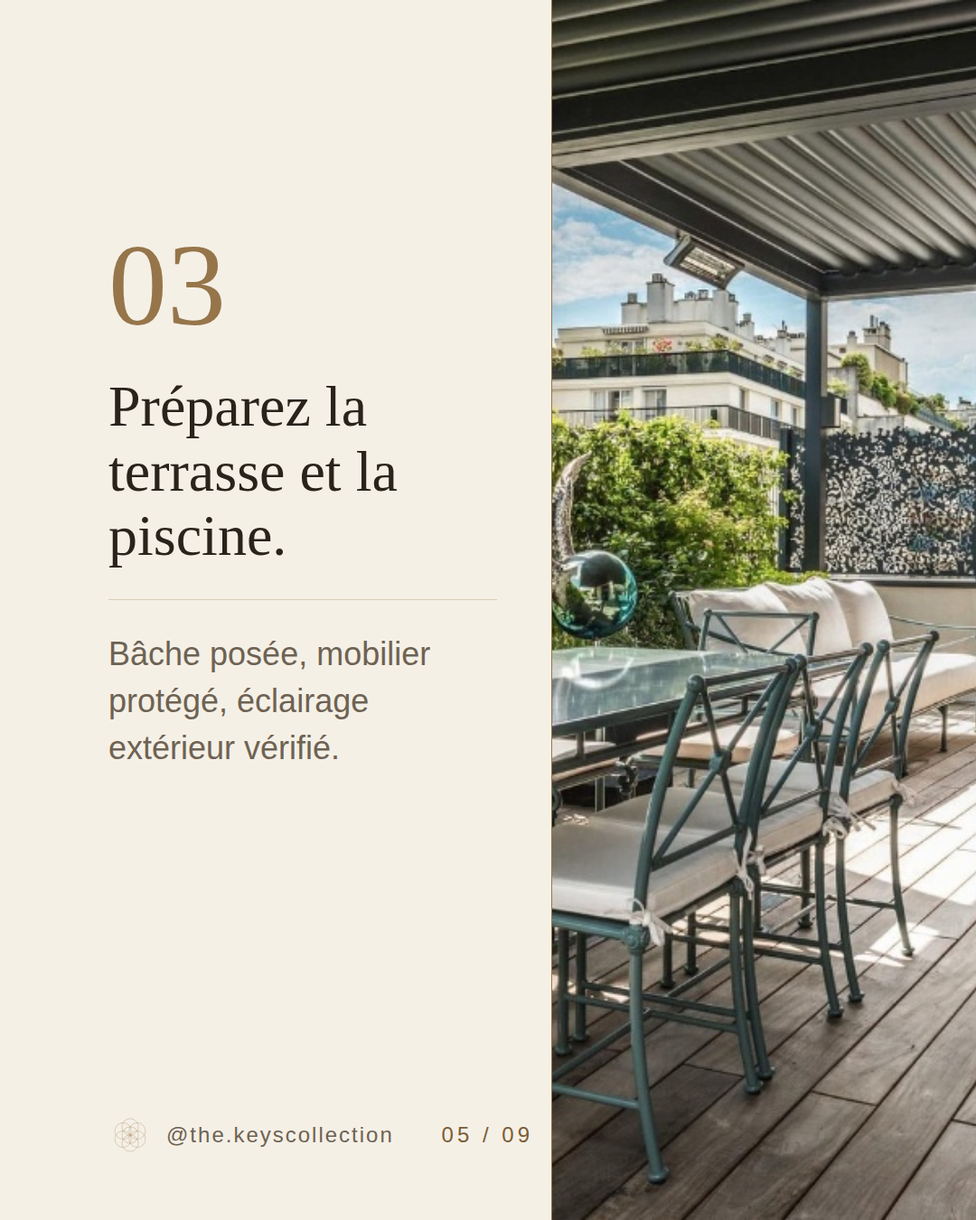
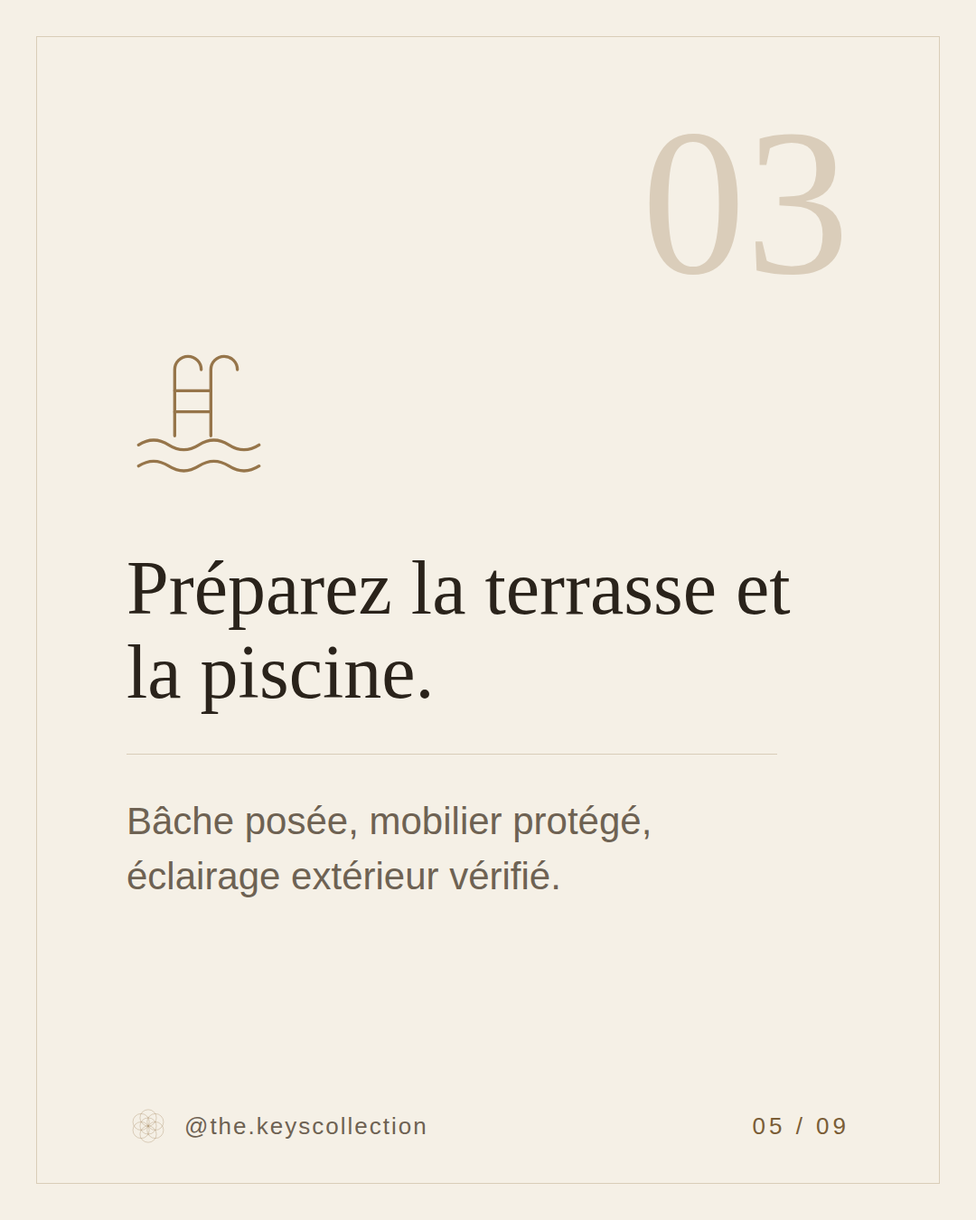
Redo today's carousel and stories without photos
Replace yesterday's property photos with bronze line icons on ivory so
today's grid and stories do not repeat the same images.

Claude-Session: https://claude.ai/code/session_014q3bndupnj5ruhxQme2s7t

diff --git a/posts/carrousel-hiver/slides.html b/posts/carrousel-hiver/slides.html
@@ -1,42 +1,39 @@
 <!doctype html><html lang="fr"><head><meta charset="utf-8"><style>
 :root{--bg:#F5F0E6;--ink:#2A231B;--soft:#6E6253;--bronze:#96754A;--bronze-ink:#7A5D36;--line:#D9CDB8}
 *{margin:0;padding:0;box-sizing:border-box}
-section{width:1080px;height:1350px;position:relative;overflow:hidden;background:var(--bg);color:var(--ink);font-family:"Liberation Sans",sans-serif}
+section{width:1080px;height:1350px;position:relative;overflow:hidden;background:var(--bg);color:var(--ink);font-family:"Liberation Sans",sans-serif;padding:0 140px}
+section::after{content:"";position:absolute;inset:40px;border:1px solid var(--line)}
 h1,h2{font-family:"Bitstream Charter","Liberation Serif",serif;font-weight:400}
-.foot{position:absolute;left:120px;right:120px;bottom:70px;display:flex;align-items:center;gap:16px;font-size:26px;letter-spacing:2px;color:var(--soft)}
+.foot{position:absolute;left:140px;right:140px;bottom:80px;display:flex;align-items:center;gap:16px;font-size:26px;letter-spacing:2px;color:var(--soft)}
 .foot b{white-space:nowrap;margin-left:auto;font-weight:400;letter-spacing:4px;color:var(--bronze-ink)}
 .mini{width:48px;height:48px;color:var(--bronze)}
-/* cover: full photo, ivory card low in the frame, text kept inside 120 px margins */
-.cover .ph{position:absolute;inset:0;background-size:cover}
-.cover .card{position:absolute;left:120px;right:120px;bottom:150px;background:rgba(245,240,230,.95);padding:60px 64px;outline:1px solid var(--bronze);outline-offset:-16px}
-.cover .lab{font-size:26px;letter-spacing:8px;text-transform:uppercase;color:var(--bronze-ink);margin-bottom:22px}
-.cover h1{font-size:96px;line-height:1.05}
-.cover p{font-size:38px;line-height:1.35;color:var(--soft);margin-top:26px}
-.cover .foot{color:#FBF8F2;text-shadow:0 1px 10px rgba(0,0,0,.5)}.cover .foot b{color:#FBF8F2}.cover .mini{color:#FBF8F2}
-/* steps: arched photo window on the right, text left */
-.step .ph{position:absolute;right:0;top:0;width:470px;height:1350px;background-size:cover;border-left:1px solid var(--bronze)}
-.step .txt{position:absolute;left:120px;width:430px;top:250px}
-.n{font-family:"Bitstream Charter",serif;font-size:130px;color:var(--bronze);line-height:1;margin-bottom:34px}
-.step h2{font-size:64px;line-height:1.12}
-.step p{font-size:36px;line-height:1.45;color:var(--soft);margin-top:34px;padding-top:34px;border-top:1px solid var(--line)}
-.step .foot{right:auto;width:470px;font-size:24px}
-.plain{display:flex;flex-direction:column;justify-content:center;padding:0 140px}
-.plain::after{content:"";position:absolute;inset:40px;border:1px solid var(--line)}
+/* text-only system: one bronze line icon per idea, big numeral, serif statement */
+.cover{display:flex;flex-direction:column;justify-content:center}
+.cover .wm{position:absolute;width:1000px;height:1000px;right:-380px;top:-300px;color:var(--bronze);opacity:.16}
+.lab{font-size:26px;letter-spacing:8px;text-transform:uppercase;color:var(--bronze-ink);margin-bottom:36px}
+.cover h1{font-size:150px;line-height:1}
+.cover .rule{width:110px;height:2px;background:var(--bronze);margin:60px 0}
+.cover p{font-size:46px;line-height:1.35;color:var(--soft);max-width:700px}
+.step{display:flex;flex-direction:column;justify-content:center}
+.n{position:absolute;top:110px;right:140px;font-family:"Bitstream Charter",serif;font-size:230px;line-height:1;color:var(--bronze);opacity:.28}
+.ico{width:200px;height:200px;color:var(--bronze);margin-bottom:56px;margin-left:-20px}
+.step h2{font-size:84px;line-height:1.1;max-width:760px}
+.step p{font-size:42px;line-height:1.45;color:var(--soft);margin-top:44px;padding-top:44px;border-top:1px solid var(--line);max-width:720px}
+.plain{display:flex;flex-direction:column;justify-content:center}
 .plain h2{font-size:86px;line-height:1.1}
-.plain p{font-size:40px;line-height:1.45;color:var(--soft);margin-top:40px}
-.plain .big{width:160px;height:160px;color:var(--bronze);margin-bottom:50px}
-ol{list-style:none;counter-reset:q;margin-top:30px}
-ol li{counter-increment:q;font-size:42px;line-height:1.3;padding:24px 0;border-bottom:1px solid var(--line);display:flex;gap:28px}
+.plain p{font-size:42px;line-height:1.45;color:var(--soft);margin-top:44px}
+.plain .big{width:170px;height:170px;color:var(--bronze);margin-bottom:56px}
+ol{list-style:none;counter-reset:q}
+ol li{counter-increment:q;font-size:46px;line-height:1.3;padding:28px 0;border-bottom:1px solid var(--line);display:flex;gap:30px}
 ol li::before{content:"0" counter(q);color:var(--bronze);font-family:"Bitstream Charter",serif}
-.lab2{font-size:26px;letter-spacing:8px;text-transform:uppercase;color:var(--bronze-ink)}
 </style></head><body>
-<section data-name="slide-1" class="cover"><div class="ph" style="background-image:url('file:///home/user/instagram-agent-skill/posts/reel-check-list-arrivee/photos/1.jpg');background-position:72% center"></div><div class="card"><div class="lab">Location pendant les fêtes</div><h1>N'attendez pas décembre.</h1><p>5 choses à régler avant l'arrivée de vos locataires de Noël.</p></div><div class="foot"><svg class="mini" viewBox="0 0 300 300"><g transform="translate(150,150) scale(1.35)" fill="none" stroke="currentColor" stroke-width="1.4"><circle cx="0" cy="-42" r="42"/><circle cx="36.4" cy="-21" r="42"/><circle cx="36.4" cy="21" r="42"/><circle cx="0" cy="42" r="42"/><circle cx="-36.4" cy="21" r="42"/><circle cx="-36.4" cy="-21" r="42"/><circle r="42"/></g></svg><span>@the.keyscollection</span><b>01 / 09</b></div></section>
-<section data-name="slide-2" class="plain"><svg class="big" viewBox="0 0 300 300"><g transform="translate(150,150) scale(1.35)" fill="none" stroke="currentColor" stroke-width="1.4"><circle cx="0" cy="-42" r="42"/><circle cx="36.4" cy="-21" r="42"/><circle cx="36.4" cy="21" r="42"/><circle cx="0" cy="42" r="42"/><circle cx="-36.4" cy="21" r="42"/><circle cx="-36.4" cy="-21" r="42"/><circle r="42"/></g></svg><h2>Les fêtes, c'est la période où une panne coûte le plus cher.</h2><p>Des locataires qui ont réservé pour le 24, une chaudière qui lâche le 23. Voici comment l'éviter.</p><div class="foot"><svg class="mini" viewBox="0 0 300 300"><g transform="translate(150,150) scale(1.35)" fill="none" stroke="currentColor" stroke-width="1.4"><circle cx="0" cy="-42" r="42"/><circle cx="36.4" cy="-21" r="42"/><circle cx="36.4" cy="21" r="42"/><circle cx="0" cy="42" r="42"/><circle cx="-36.4" cy="21" r="42"/><circle cx="-36.4" cy="-21" r="42"/><circle r="42"/></g></svg><span>@the.keyscollection</span><b>02 / 09</b></div></section>
-<section data-name="slide-3" class="step"><div class="ph" style="background-image:url('file:///home/user/instagram-agent-skill/posts/reel-check-list-arrivee/photos/3.jpg');background-position:70% center"></div><div class="txt"><div class="n">01</div><h2>Faites réviser la chaudière.</h2><p>Un locataire qui a froid le 24 décembre ne revient pas.</p></div><div class="foot"><svg class="mini" viewBox="0 0 300 300"><g transform="translate(150,150) scale(1.35)" fill="none" stroke="currentColor" stroke-width="1.4"><circle cx="0" cy="-42" r="42"/><circle cx="36.4" cy="-21" r="42"/><circle cx="36.4" cy="21" r="42"/><circle cx="0" cy="42" r="42"/><circle cx="-36.4" cy="21" r="42"/><circle cx="-36.4" cy="-21" r="42"/><circle r="42"/></g></svg><span>@the.keyscollection</span><b>03 / 09</b></div></section>
-<section data-name="slide-4" class="step"><div class="ph" style="background-image:url('file:///home/user/instagram-agent-skill/posts/reel-check-list-arrivee/photos/1.jpg');background-position:80% center"></div><div class="txt"><div class="n">02</div><h2>Faites ramoner la cheminée.</h2><p>Et laissez du bois, avec une consigne claire pour l'allumer.</p></div><div class="foot"><svg class="mini" viewBox="0 0 300 300"><g transform="translate(150,150) scale(1.35)" fill="none" stroke="currentColor" stroke-width="1.4"><circle cx="0" cy="-42" r="42"/><circle cx="36.4" cy="-21" r="42"/><circle cx="36.4" cy="21" r="42"/><circle cx="0" cy="42" r="42"/><circle cx="-36.4" cy="21" r="42"/><circle cx="-36.4" cy="-21" r="42"/><circle r="42"/></g></svg><span>@the.keyscollection</span><b>04 / 09</b></div></section>
-<section data-name="slide-5" class="step"><div class="ph" style="background-image:url('file:///home/user/instagram-agent-skill/posts/reel-check-list-arrivee/photos/6.jpg');background-position:60% center"></div><div class="txt"><div class="n">03</div><h2>Préparez la terrasse et la piscine.</h2><p>Bâche posée, mobilier protégé, éclairage extérieur vérifié.</p></div><div class="foot"><svg class="mini" viewBox="0 0 300 300"><g transform="translate(150,150) scale(1.35)" fill="none" stroke="currentColor" stroke-width="1.4"><circle cx="0" cy="-42" r="42"/><circle cx="36.4" cy="-21" r="42"/><circle cx="36.4" cy="21" r="42"/><circle cx="0" cy="42" r="42"/><circle cx="-36.4" cy="21" r="42"/><circle cx="-36.4" cy="-21" r="42"/><circle r="42"/></g></svg><span>@the.keyscollection</span><b>05 / 09</b></div></section>
-<section data-name="slide-6" class="step"><div class="ph" style="background-image:url('file:///home/user/instagram-agent-skill/posts/reel-check-list-arrivee/photos/2.jpg');background-position:30% center"></div><div class="txt"><div class="n">04</div><h2>Passez au linge d'hiver.</h2><p>Couettes épaisses et plaids dans chaque chambre.</p></div><div class="foot"><svg class="mini" viewBox="0 0 300 300"><g transform="translate(150,150) scale(1.35)" fill="none" stroke="currentColor" stroke-width="1.4"><circle cx="0" cy="-42" r="42"/><circle cx="36.4" cy="-21" r="42"/><circle cx="36.4" cy="21" r="42"/><circle cx="0" cy="42" r="42"/><circle cx="-36.4" cy="21" r="42"/><circle cx="-36.4" cy="-21" r="42"/><circle r="42"/></g></svg><span>@the.keyscollection</span><b>06 / 09</b></div></section>
-<section data-name="slide-7" class="step"><div class="ph" style="background-image:url('file:///home/user/instagram-agent-skill/posts/reel-check-list-arrivee/photos/4.jpg');background-position:50% center"></div><div class="txt"><div class="n">05</div><h2>Ouvrez les dates des fêtes maintenant.</h2><p>N'attendez pas décembre pour fixer vos prix.</p></div><div class="foot"><svg class="mini" viewBox="0 0 300 300"><g transform="translate(150,150) scale(1.35)" fill="none" stroke="currentColor" stroke-width="1.4"><circle cx="0" cy="-42" r="42"/><circle cx="36.4" cy="-21" r="42"/><circle cx="36.4" cy="21" r="42"/><circle cx="0" cy="42" r="42"/><circle cx="-36.4" cy="21" r="42"/><circle cx="-36.4" cy="-21" r="42"/><circle r="42"/></g></svg><span>@the.keyscollection</span><b>07 / 09</b></div></section>
-<section data-name="slide-8" class="plain"><div class="lab2">Votre check-list d'hiver</div><ol><li>Réviser la chaudière</li><li>Ramoner la cheminée</li><li>Protéger terrasse et piscine</li><li>Passer au linge d'hiver</li><li>Ouvrir les dates des fêtes</li></ol><div class="foot"><svg class="mini" viewBox="0 0 300 300"><g transform="translate(150,150) scale(1.35)" fill="none" stroke="currentColor" stroke-width="1.4"><circle cx="0" cy="-42" r="42"/><circle cx="36.4" cy="-21" r="42"/><circle cx="36.4" cy="21" r="42"/><circle cx="0" cy="42" r="42"/><circle cx="-36.4" cy="21" r="42"/><circle cx="-36.4" cy="-21" r="42"/><circle r="42"/></g></svg><span>@the.keyscollection</span><b>08 / 09</b></div></section>
+<section data-name="slide-1" class="cover"><svg class="wm" viewBox="0 0 300 300"><g transform="translate(150,150) scale(1.35)" fill="none" stroke="currentColor" stroke-width="1.4"><circle cx="0" cy="-42" r="42"/><circle cx="36.4" cy="-21" r="42"/><circle cx="36.4" cy="21" r="42"/><circle cx="0" cy="42" r="42"/><circle cx="-36.4" cy="21" r="42"/><circle cx="-36.4" cy="-21" r="42"/><circle r="42"/></g></svg><div class="lab">Location pendant les fêtes</div><h1>N'attendez pas décembre.</h1><div class="rule"></div><p>5 choses à régler avant l'arrivée de vos locataires de Noël.</p><div class="foot"><svg class="mini" viewBox="0 0 300 300"><g transform="translate(150,150) scale(1.35)" fill="none" stroke="currentColor" stroke-width="1.4"><circle cx="0" cy="-42" r="42"/><circle cx="36.4" cy="-21" r="42"/><circle cx="36.4" cy="21" r="42"/><circle cx="0" cy="42" r="42"/><circle cx="-36.4" cy="21" r="42"/><circle cx="-36.4" cy="-21" r="42"/><circle r="42"/></g></svg><span>@the.keyscollection</span><b>01 / 09</b></div></section>
+<section data-name="slide-2" class="plain"><svg class="big" viewBox="0 0 300 300"><g fill="none" stroke="currentColor" stroke-width="5" stroke-linecap="round"><path d="M150 60 V240 M72 105 L228 195 M72 195 L228 105"/><path d="M130 75 L150 95 L170 75 M130 225 L150 205 L170 225"/></g></svg><h2>Les fêtes, c'est la période où une panne coûte le plus cher.</h2><p>Des locataires qui ont réservé pour le 24, une chaudière qui lâche le 23. Voici comment l'éviter.</p><div class="foot"><svg class="mini" viewBox="0 0 300 300"><g transform="translate(150,150) scale(1.35)" fill="none" stroke="currentColor" stroke-width="1.4"><circle cx="0" cy="-42" r="42"/><circle cx="36.4" cy="-21" r="42"/><circle cx="36.4" cy="21" r="42"/><circle cx="0" cy="42" r="42"/><circle cx="-36.4" cy="21" r="42"/><circle cx="-36.4" cy="-21" r="42"/><circle r="42"/></g></svg><span>@the.keyscollection</span><b>02 / 09</b></div></section>
+<section data-name="slide-3" class="step"><div class="n">01</div><svg class="ico" viewBox="0 0 300 300"><g fill="none" stroke="currentColor" stroke-width="5" stroke-linecap="round"><path d="M135 60 a15 15 0 0 1 30 0 V180 a35 35 0 1 1 -30 0 Z"/><path d="M150 100 V200"/><circle cx="150" cy="210" r="12"/><path d="M185 80 H205 M185 110 H200 M185 140 H205"/></g></svg><h2>Faites réviser la chaudière.</h2><p>Un locataire qui a froid le 24 décembre ne revient pas.</p><div class="foot"><svg class="mini" viewBox="0 0 300 300"><g transform="translate(150,150) scale(1.35)" fill="none" stroke="currentColor" stroke-width="1.4"><circle cx="0" cy="-42" r="42"/><circle cx="36.4" cy="-21" r="42"/><circle cx="36.4" cy="21" r="42"/><circle cx="0" cy="42" r="42"/><circle cx="-36.4" cy="21" r="42"/><circle cx="-36.4" cy="-21" r="42"/><circle r="42"/></g></svg><span>@the.keyscollection</span><b>03 / 09</b></div></section>
+<section data-name="slide-4" class="step"><div class="n">02</div><svg class="ico" viewBox="0 0 300 300"><g fill="none" stroke="currentColor" stroke-width="5" stroke-linejoin="round" stroke-linecap="round"><path d="M50 90 H250 M65 90 V240 M235 90 V240 M50 240 H250"/><path d="M100 240 V170 a50 50 0 0 1 100 0 V240"/><path d="M150 230 c-22 -8 -24 -34 -6 -52 c2 14 10 18 14 10 c14 16 12 36 -8 42 Z"/></g></svg><h2>Faites ramoner la cheminée.</h2><p>Et laissez du bois, avec une consigne claire pour l'allumer.</p><div class="foot"><svg class="mini" viewBox="0 0 300 300"><g transform="translate(150,150) scale(1.35)" fill="none" stroke="currentColor" stroke-width="1.4"><circle cx="0" cy="-42" r="42"/><circle cx="36.4" cy="-21" r="42"/><circle cx="36.4" cy="21" r="42"/><circle cx="0" cy="42" r="42"/><circle cx="-36.4" cy="21" r="42"/><circle cx="-36.4" cy="-21" r="42"/><circle r="42"/></g></svg><span>@the.keyscollection</span><b>04 / 09</b></div></section>
+<section data-name="slide-5" class="step"><div class="n">03</div><svg class="ico" viewBox="0 0 300 300"><g fill="none" stroke="currentColor" stroke-width="5" stroke-linecap="round"><path d="M110 200 V90 a22 22 0 0 1 44 0 M170 200 V90 a22 22 0 0 1 44 0"/><path d="M110 125 H170 M110 160 H170"/><path d="M50 215 q25 -16 50 0 t50 0 t50 0 t50 0 M50 250 q25 -16 50 0 t50 0 t50 0 t50 0"/></g></svg><h2>Préparez la terrasse et la piscine.</h2><p>Bâche posée, mobilier protégé, éclairage extérieur vérifié.</p><div class="foot"><svg class="mini" viewBox="0 0 300 300"><g transform="translate(150,150) scale(1.35)" fill="none" stroke="currentColor" stroke-width="1.4"><circle cx="0" cy="-42" r="42"/><circle cx="36.4" cy="-21" r="42"/><circle cx="36.4" cy="21" r="42"/><circle cx="0" cy="42" r="42"/><circle cx="-36.4" cy="21" r="42"/><circle cx="-36.4" cy="-21" r="42"/><circle r="42"/></g></svg><span>@the.keyscollection</span><b>05 / 09</b></div></section>
+<section data-name="slide-6" class="step"><div class="n">04</div><svg class="ico" viewBox="0 0 300 300"><g fill="none" stroke="currentColor" stroke-width="5" stroke-linejoin="round"><rect x="70" y="190" width="160" height="40" rx="10"/><rect x="85" y="145" width="130" height="40" rx="10"/><rect x="100" y="100" width="100" height="40" rx="10"/><path d="M85 210 H130 M100 165 H140 M115 120 H150" stroke-linecap="round"/></g></svg><h2>Passez au linge d'hiver.</h2><p>Couettes épaisses et plaids dans chaque chambre.</p><div class="foot"><svg class="mini" viewBox="0 0 300 300"><g transform="translate(150,150) scale(1.35)" fill="none" stroke="currentColor" stroke-width="1.4"><circle cx="0" cy="-42" r="42"/><circle cx="36.4" cy="-21" r="42"/><circle cx="36.4" cy="21" r="42"/><circle cx="0" cy="42" r="42"/><circle cx="-36.4" cy="21" r="42"/><circle cx="-36.4" cy="-21" r="42"/><circle r="42"/></g></svg><span>@the.keyscollection</span><b>06 / 09</b></div></section>
+<section data-name="slide-7" class="step"><div class="n">05</div><svg class="ico" viewBox="0 0 300 300"><g fill="none" stroke="currentColor" stroke-width="5" stroke-linecap="round" stroke-linejoin="round"><rect x="60" y="75" width="180" height="165" rx="8"/><path d="M60 120 H240 M105 55 V95 M195 55 V95"/><circle cx="185" cy="185" r="26"/><path d="M95 160 h12 M135 160 h12 M95 200 h12 M135 200 h12"/></g></svg><h2>Ouvrez les dates des fêtes maintenant.</h2><p>N'attendez pas décembre pour fixer vos prix.</p><div class="foot"><svg class="mini" viewBox="0 0 300 300"><g transform="translate(150,150) scale(1.35)" fill="none" stroke="currentColor" stroke-width="1.4"><circle cx="0" cy="-42" r="42"/><circle cx="36.4" cy="-21" r="42"/><circle cx="36.4" cy="21" r="42"/><circle cx="0" cy="42" r="42"/><circle cx="-36.4" cy="21" r="42"/><circle cx="-36.4" cy="-21" r="42"/><circle r="42"/></g></svg><span>@the.keyscollection</span><b>07 / 09</b></div></section>
+<section data-name="slide-8" class="plain"><div class="lab">Votre check-list d'hiver</div><ol><li>Réviser la chaudière</li><li>Ramoner la cheminée</li><li>Protéger terrasse et piscine</li><li>Passer au linge d'hiver</li><li>Ouvrir les dates des fêtes</li></ol><div class="foot"><svg class="mini" viewBox="0 0 300 300"><g transform="translate(150,150) scale(1.35)" fill="none" stroke="currentColor" stroke-width="1.4"><circle cx="0" cy="-42" r="42"/><circle cx="36.4" cy="-21" r="42"/><circle cx="36.4" cy="21" r="42"/><circle cx="0" cy="42" r="42"/><circle cx="-36.4" cy="21" r="42"/><circle cx="-36.4" cy="-21" r="42"/><circle r="42"/></g></svg><span>@the.keyscollection</span><b>08 / 09</b></div></section>
 <section data-name="slide-9" class="plain"><svg class="big" viewBox="0 0 300 300"><g transform="translate(150,150) scale(1.35)" fill="none" stroke="currentColor" stroke-width="1.4"><circle cx="0" cy="-42" r="42"/><circle cx="36.4" cy="-21" r="42"/><circle cx="36.4" cy="21" r="42"/><circle cx="0" cy="42" r="42"/><circle cx="-36.4" cy="21" r="42"/><circle cx="-36.4" cy="-21" r="42"/><circle r="42"/></g></svg><h2>Enregistrez-le pour votre check-list d'hiver.</h2><p>Vous préférez déléguer ? On vous présente une conciergerie qui s'en occupe dès l'automne.</p><div class="foot"><svg class="mini" viewBox="0 0 300 300"><g transform="translate(150,150) scale(1.35)" fill="none" stroke="currentColor" stroke-width="1.4"><circle cx="0" cy="-42" r="42"/><circle cx="36.4" cy="-21" r="42"/><circle cx="36.4" cy="21" r="42"/><circle cx="0" cy="42" r="42"/><circle cx="-36.4" cy="21" r="42"/><circle cx="-36.4" cy="-21" r="42"/><circle r="42"/></g></svg><span>@the.keyscollection</span><b>09 / 09</b></div></section>
 </body></html>

diff --git a/posts/stories-hiver/stories.html b/posts/stories-hiver/stories.html
@@ -1,17 +1,17 @@
 <!doctype html><html lang="fr"><head><meta charset="utf-8"><style>
-:root{--bg:#F5F0E6;--ink:#2A231B;--soft:#6E6253;--bronze:#96754A;--bronze-ink:#7A5D36;--line:#D9CDB8}
+:root{--bg:#F5F0E6;--ink:#2A231B;--soft:#6E6253;--bronze:#96754A;--bronze-ink:#7A5D36;--line:#D9CDB8;--panel:#EDE5D6}
 *{margin:0;padding:0;box-sizing:border-box}
 section{width:1080px;height:1920px;position:relative;overflow:hidden;background:var(--bg);color:var(--ink);font-family:"Liberation Sans",sans-serif;text-align:center}
 section::after{content:"";position:absolute;inset:44px;border:1px solid var(--line)}
-/* arched window y 270-1010, text 1060-1260, sticker room 1300-1600 */
-.arch{position:absolute;left:170px;width:740px;top:270px;height:740px;border-radius:370px 370px 0 0;background-size:cover;outline:2px solid var(--bronze);outline-offset:14px}
-.mini{position:absolute;left:510px;top:1040px;width:60px;height:60px;color:var(--bronze)}
-.lab{position:absolute;left:0;right:0;top:1125px;font-size:28px;letter-spacing:8px;text-transform:uppercase;color:var(--bronze-ink)}
-h1{position:absolute;left:130px;right:130px;top:1180px;font-family:"Bitstream Charter","Liberation Serif",serif;font-weight:400;font-size:66px;line-height:1.15}
+/* empty arch y 300-960 holding a line icon; text 1020-1260; sticker room 1300-1600 */
+.arch{position:absolute;left:250px;width:580px;top:300px;height:660px;border-radius:290px 290px 0 0;background:var(--panel);outline:2px solid var(--bronze);outline-offset:14px;display:flex;align-items:center;justify-content:center}
+.ico{width:300px;height:300px;color:var(--bronze);margin-top:60px}
+.lab{position:absolute;left:0;right:0;top:1050px;font-size:28px;letter-spacing:8px;text-transform:uppercase;color:var(--bronze-ink)}
+h1{position:absolute;left:130px;right:130px;top:1105px;font-family:"Bitstream Charter","Liberation Serif",serif;font-weight:400;font-size:68px;line-height:1.15}
 </style></head><body>
-<section data-name="story-1"><div class="arch" style="background-image:url('file:///home/user/instagram-agent-skill/posts/reel-check-list-arrivee/photos/5.jpg');background-position:50% center"></div><svg class="mini" viewBox="0 0 300 300"><g transform="translate(150,150) scale(1.35)" fill="none" stroke="currentColor" stroke-width="1.6"><circle cx="0" cy="-42" r="42"/><circle cx="36.4" cy="-21" r="42"/><circle cx="36.4" cy="21" r="42"/><circle cx="0" cy="42" r="42"/><circle cx="-36.4" cy="21" r="42"/><circle cx="-36.4" cy="-21" r="42"/><circle r="42"/></g></svg><div class="lab">L'hiver arrive</div><h1>Votre bien est-il prêt pour l'hiver ?</h1></section>
-<section data-name="story-2"><div class="arch" style="background-image:url('file:///home/user/instagram-agent-skill/posts/reel-check-list-arrivee/photos/1.jpg');background-position:78% center"></div><svg class="mini" viewBox="0 0 300 300"><g transform="translate(150,150) scale(1.35)" fill="none" stroke="currentColor" stroke-width="1.6"><circle cx="0" cy="-42" r="42"/><circle cx="36.4" cy="-21" r="42"/><circle cx="36.4" cy="21" r="42"/><circle cx="0" cy="42" r="42"/><circle cx="-36.4" cy="21" r="42"/><circle cx="-36.4" cy="-21" r="42"/><circle r="42"/></g></svg><div class="lab">Quiz</div><h1>Quand faut-il ouvrir les dates des fêtes ?</h1></section>
-<section data-name="story-3"><div class="arch" style="background-image:url('file:///home/user/instagram-agent-skill/posts/reel-check-list-arrivee/photos/6.jpg');background-position:55% center"></div><svg class="mini" viewBox="0 0 300 300"><g transform="translate(150,150) scale(1.35)" fill="none" stroke="currentColor" stroke-width="1.6"><circle cx="0" cy="-42" r="42"/><circle cx="36.4" cy="-21" r="42"/><circle cx="36.4" cy="21" r="42"/><circle cx="0" cy="42" r="42"/><circle cx="-36.4" cy="21" r="42"/><circle cx="-36.4" cy="-21" r="42"/><circle r="42"/></g></svg><div class="lab">Soyez honnête</div><h1>Votre bien est prêt pour l'hiver à quel point ?</h1></section>
-<section data-name="story-4"><div class="arch" style="background-image:url('file:///home/user/instagram-agent-skill/posts/reel-check-list-arrivee/photos/2.jpg');background-position:30% center"></div><svg class="mini" viewBox="0 0 300 300"><g transform="translate(150,150) scale(1.35)" fill="none" stroke="currentColor" stroke-width="1.6"><circle cx="0" cy="-42" r="42"/><circle cx="36.4" cy="-21" r="42"/><circle cx="36.4" cy="21" r="42"/><circle cx="0" cy="42" r="42"/><circle cx="-36.4" cy="21" r="42"/><circle cx="-36.4" cy="-21" r="42"/><circle r="42"/></g></svg><div class="lab">Notre dernier post</div><h1>Les 5 choses à faire avant décembre.</h1></section>
-<section data-name="story-5"><div class="arch" style="background-image:url('file:///home/user/instagram-agent-skill/posts/reel-check-list-arrivee/photos/4.jpg');background-position:50% center"></div><svg class="mini" viewBox="0 0 300 300"><g transform="translate(150,150) scale(1.35)" fill="none" stroke="currentColor" stroke-width="1.6"><circle cx="0" cy="-42" r="42"/><circle cx="36.4" cy="-21" r="42"/><circle cx="36.4" cy="21" r="42"/><circle cx="0" cy="42" r="42"/><circle cx="-36.4" cy="21" r="42"/><circle cx="-36.4" cy="-21" r="42"/><circle r="42"/></g></svg><div class="lab">Vos questions</div><h1>Une question sur la location pendant les fêtes ?</h1></section>
+<section data-name="story-1"><div class="arch"><svg class="ico" viewBox="0 0 300 300"><g fill="none" stroke="currentColor" stroke-width="5" stroke-linecap="round"><path d="M150 60 V240 M72 105 L228 195 M72 195 L228 105"/><path d="M130 75 L150 95 L170 75 M130 225 L150 205 L170 225"/></g></svg></div><div class="lab">L'hiver arrive</div><h1>Votre bien est-il prêt pour l'hiver ?</h1></section>
+<section data-name="story-2"><div class="arch"><svg class="ico" viewBox="0 0 300 300"><g fill="none" stroke="currentColor" stroke-width="5" stroke-linecap="round" stroke-linejoin="round"><rect x="60" y="75" width="180" height="165" rx="8"/><path d="M60 120 H240 M105 55 V95 M195 55 V95"/><circle cx="185" cy="185" r="26"/><path d="M95 160 h12 M135 160 h12 M95 200 h12 M135 200 h12"/></g></svg></div><div class="lab">Quiz</div><h1>Quand faut-il ouvrir les dates des fêtes ?</h1></section>
+<section data-name="story-3"><div class="arch"><svg class="ico" viewBox="0 0 300 300"><g fill="none" stroke="currentColor" stroke-width="5" stroke-linecap="round"><path d="M135 60 a15 15 0 0 1 30 0 V180 a35 35 0 1 1 -30 0 Z"/><path d="M150 100 V200"/><circle cx="150" cy="210" r="12"/><path d="M185 80 H205 M185 110 H200 M185 140 H205"/></g></svg></div><div class="lab">Soyez honnête</div><h1>Votre bien est prêt pour l'hiver à quel point ?</h1></section>
+<section data-name="story-4"><div class="arch"><svg class="ico" viewBox="0 0 300 300"><g fill="none" stroke="currentColor" stroke-width="5" stroke-linejoin="round" stroke-linecap="round"><path d="M50 90 H250 M65 90 V240 M235 90 V240 M50 240 H250"/><path d="M100 240 V170 a50 50 0 0 1 100 0 V240"/><path d="M150 230 c-22 -8 -24 -34 -6 -52 c2 14 10 18 14 10 c14 16 12 36 -8 42 Z"/></g></svg></div><div class="lab">Notre dernier post</div><h1>Les 5 choses à faire avant décembre.</h1></section>
+<section data-name="story-5"><div class="arch"><svg class="ico" viewBox="0 0 300 300"><g fill="none" stroke="currentColor" stroke-width="5" stroke-linecap="round" stroke-linejoin="round"><path d="M60 80 H240 V200 H140 L100 240 V200 H60 Z"/><path d="M128 120 a22 22 0 1 1 30 20 c-8 4 -8 10 -8 16"/><circle cx="150" cy="178" r="3"/></g></svg></div><div class="lab">Vos questions</div><h1>Une question sur la location pendant les fêtes ?</h1></section>
 </body></html>
